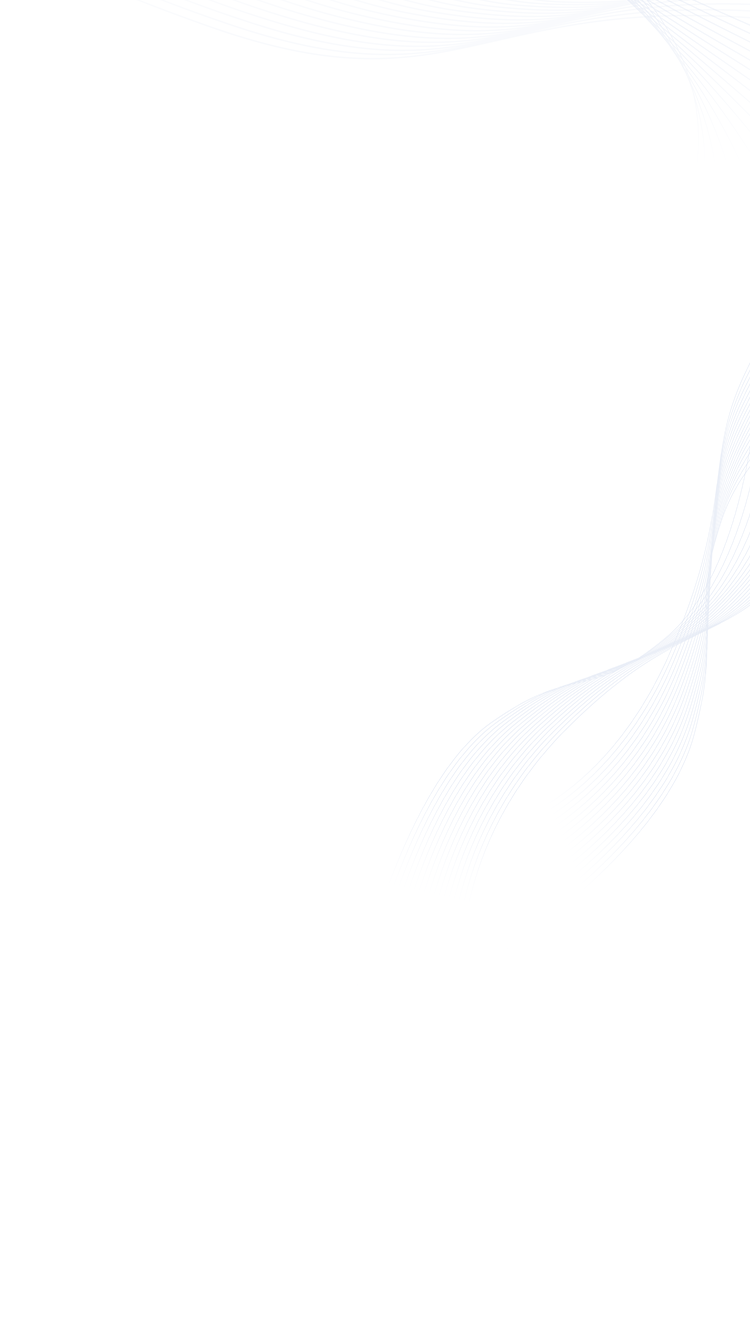
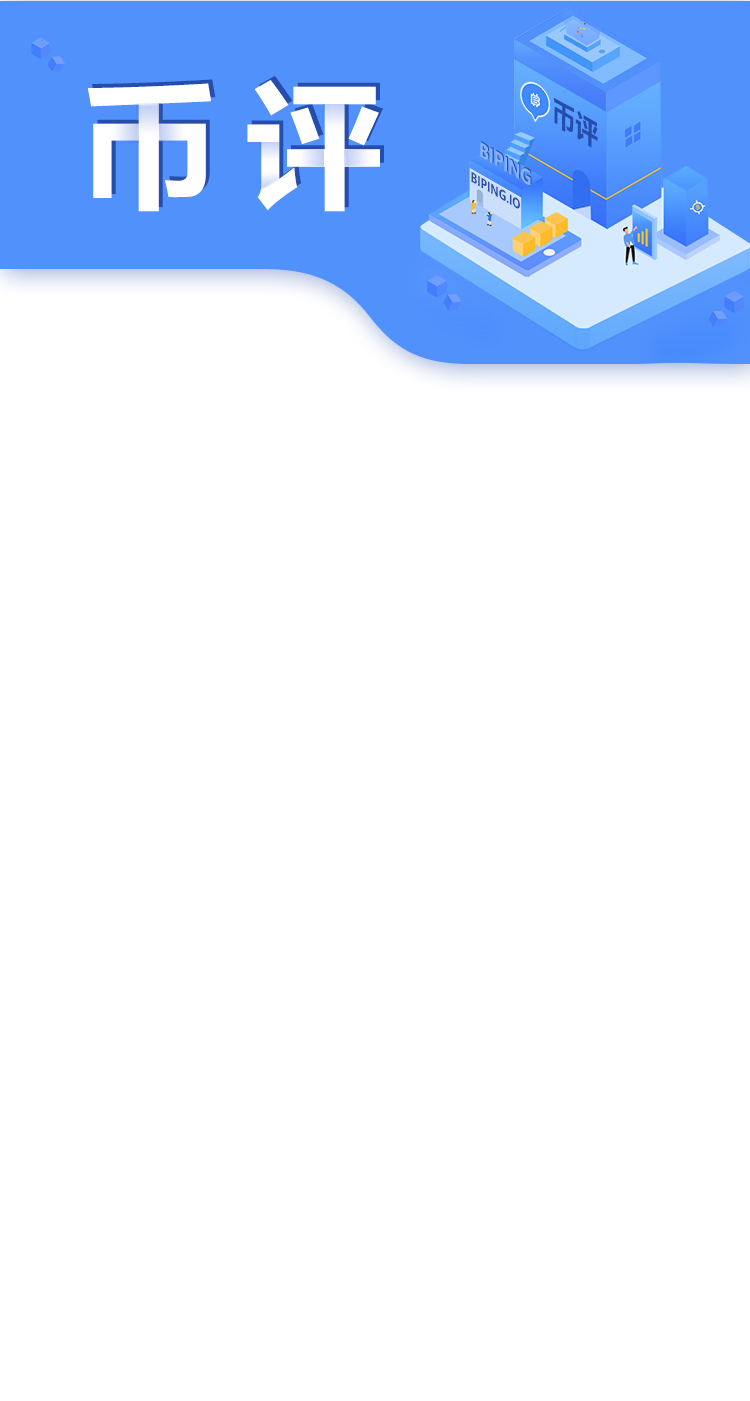
分享页面

Changed region(s): [[0.0, 0.0, 1.0, 0.2766]]

diff --git a/src/routes/weixin/message/messageDetail.less b/src/routes/weixin/message/messageDetail.less
@@ -4,6 +4,7 @@
   margin:0;
   padding: 0;
     font-family: 'PingFangSC',"Microsoft YaHei" !important;
+    list-style: none;
 }
 html{
   font-size:13.333vw;
@@ -80,7 +81,7 @@ body{font-size:0.28rem;width: 100% !important;}
   margin-right: .3rem;
   margin-left: .3rem;
   padding-bottom: .47rem;
-  word-break: break-all;
+  word-wrap: break-word;
   line-height: .64rem;
   text-align: left;
 }
@@ -261,36 +262,38 @@ body{font-size:0.28rem;width: 100% !important;}
 
 .picBox {
     width: 100%;
-    max-height: 550px;
-    background: url(/images/msgImages/dabai.png) #fff no-repeat center;
-    background-size: 100%;
+    height:13rem;
+    background: url(/images/msgImages/dabai.png) #fff no-repeat top;
+    background-size: 100% ;
     color: #000;
     font-size: calc(36px * .4);
     word-wrap:break-word;
-    padding-bottom: 1.5rem;
+    padding-bottom: 1rem;
     position: relative;
+    overflow: hidden;
 }
 
 .picKinds {
     font-size: .26rem;
     color: #666;
     margin-left: calc(72px * .4);
-    padding-top: calc(60px * .4);
-    margin-bottom: calc(20px * .4);
     text-align: left;
+    position: absolute;
+    top: 3.1rem
 
 }
 
 .picTitle {
     box-sizing: border-box;
-    margin: 0 calc(72px * .4) calc(40px * .4);
+    margin: 0 calc(72px * .4) 0;
     line-height: calc(66px * .4);
     font-size: .44rem;
-    height: 1.1rem;
+    // height: 1.1rem;
     overflow: hidden;
-    word-break: break-all;
+    word-wrap: break-word;
     text-align: left;
     font-weight: bold;
+    margin-top: 4.14rem;
 
 }
 
@@ -298,16 +301,17 @@ body{font-size:0.28rem;width: 100% !important;}
 .picFonts {
     box-sizing: border-box;
     line-height: calc(54px * .4);
-    margin: 0 .5rem;
+    margin: .5rem .5rem 0;
     height: 242px;
-    word-break: break-all;
+    word-wrap: break-word;
     -webkit-box-orient: vertical;
     -webkit-line-clamp: 9;
     overflow: hidden;
-     word-break: break-all;
      font-size: .36rem;
      line-height: .64rem;
      text-align: left;
+     // position: absolute;
+
 }
 :global(#innerContent img){
   display:none;
@@ -317,12 +321,18 @@ body{font-size:0.28rem;width: 100% !important;}
 }
 
 .wechatBox {
-    margin: calc(60px * .4) auto calc(36px * .4);
-    background: url('/images/msgImages/wechatBorder.png');
-    background-size: 2.08rem 2.58rem;
-    width: 2.08rem;
-    height: 2.58rem;
-    position: relative;
+    // margin: calc(60px * .4) auto calc(36px * .4);
+    // background: url('/images/msgImages/wechatBorder.png');
+    // background-size: 2.08rem 2.58rem;
+    // width: 2rem;
+    // height: 2rem;
+    position: absolute;
+    bottom: 12px;
+    right: 17px;
+    border: 2px solid #5191FC;
+    border-radius: .06px;
+    z-index: 999
+
 }
 
  .wechatBox img {
@@ -344,7 +354,7 @@ body{font-size:0.28rem;width: 100% !important;}
 }
 .bottomCopy{
   width: 100%;
-  height: 1.4rem;
+  height: 1.9rem;
   background: #F6F6F6;
   color: #666;
   font-size: .26rem;
@@ -353,14 +363,19 @@ body{font-size:0.28rem;width: 100% !important;}
   bottom: 0;
   left: 0;
   letter-spacing: .03rem;
+  display: flex;
 }
 .copytop{
-  width: 1.85rem;
-  height: .4rem;
-  margin:.3rem auto .1rem;
+  float: left;
+  width: 1rem;
+  height: 1.1rem;
+  margin-top: .4rem;
+  margin-left: .15rem
 }
 .copytop img{
   float: left;
+  width: 1rem;
+  height: 1.1rem;
 }
 .shareBox h2{
   font-weight: normal;
@@ -394,4 +409,14 @@ table{
   left: 50%;
   margin-left: -50%;
   color: #fff;
+  display: none
+}
+.logotop{
+  float: left;
+  margin-top: .58rem
+}
+
+.logobottom i{
+  float: right;
+  margin-right: .1rem;
 }

diff --git a/src/routes/weixin/message/messageDetail.jsx b/src/routes/weixin/message/messageDetail.jsx
@@ -343,10 +343,11 @@ class MsgDetail extends BaseComponent {
             <div className={style.bottomCopy}>
                 <div>
                   <div className={style.copytop}>
-                          <img src="/images/msgImages/copy.png" style={{width:'.35rem',height:'.4rem'}}/>&nbsp;biping.io
+                          <img src="/images/msgImages/copy.png" />
                   </div>
 
-                  <div>【币评】你最想要的币市信息</div>
+                  <div className={style.logotop}>【币评】你最想要的币市信息</div>
+                  <div className={style.logobottom}>biping.io <i style={{"color":"#032c4c"}}>扫码阅读全文</i></div>
                 </div>
               </div>
           </div>

diff --git a/src/pageComponents/weixin/message/emptyMsg.less b/src/pageComponents/weixin/message/emptyMsg.less
@@ -4,6 +4,7 @@
   margin:0;
   padding: 0;
   font-family: 'PingFangSC',"Microsoft YaHei" !important;
+  list-style: none;
   -webkit-touch-callout:none;
  -webkit-user-select:none;
  -khtml-user-select:none;
